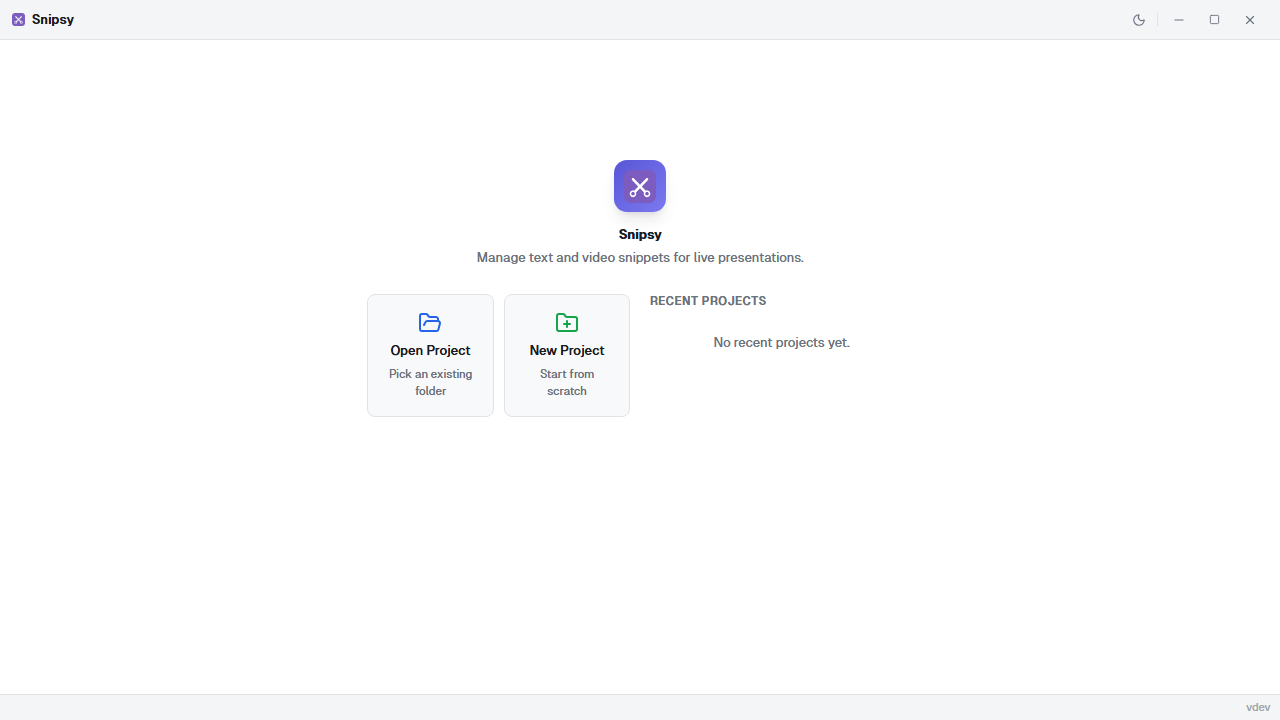
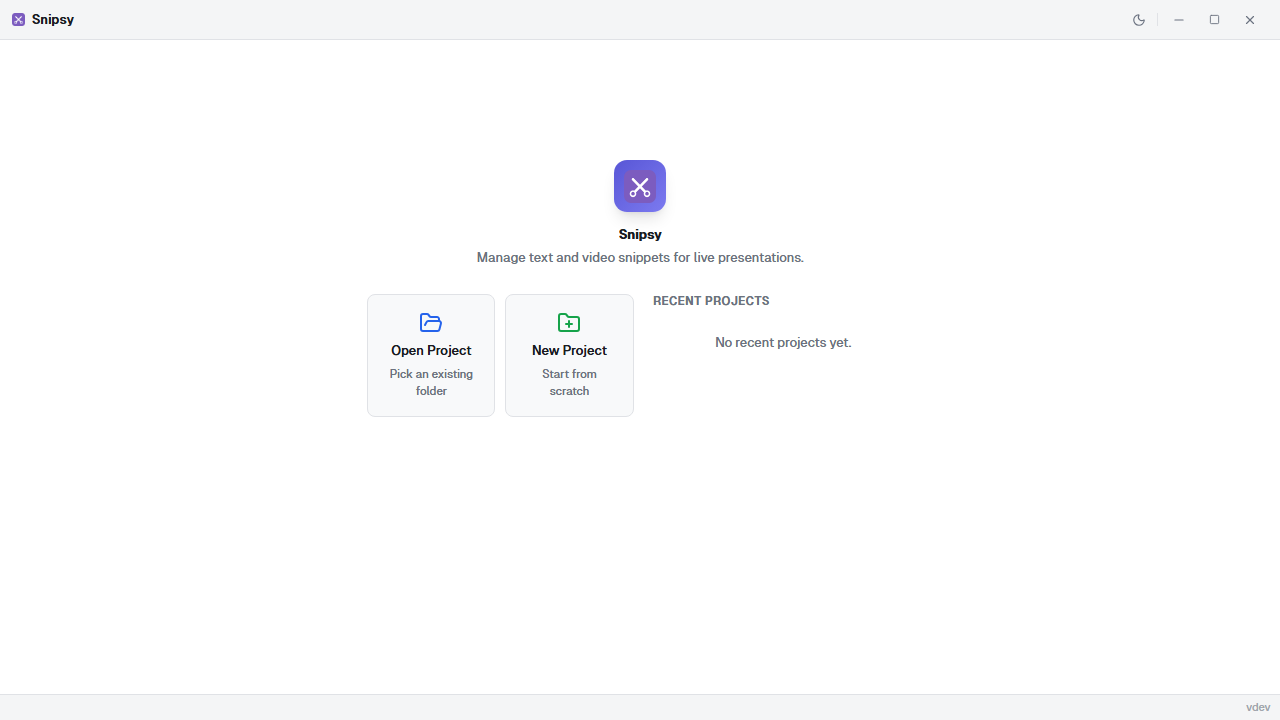
fix: prevent recent projects from squishing welcome action buttons
Use fixed w-[260px] shrink-0 on the recent projects column instead of
flex-1, so the Open/New Project cards always have room to breathe.

diff --git a/src/components/Welcome.tsx b/src/components/Welcome.tsx
@@ -248,7 +248,7 @@ function Welcome() {
           </div>
 
           {/* Right column: Recent projects */}
-          <div className="flex-1">
+          <div className="w-[260px] shrink-0">
             <h3 className="text-sm font-semibold uppercase tracking-wider mb-3" style={{ color: "var(--color-text-secondary)" }}>
               Recent Projects
             </h3>
